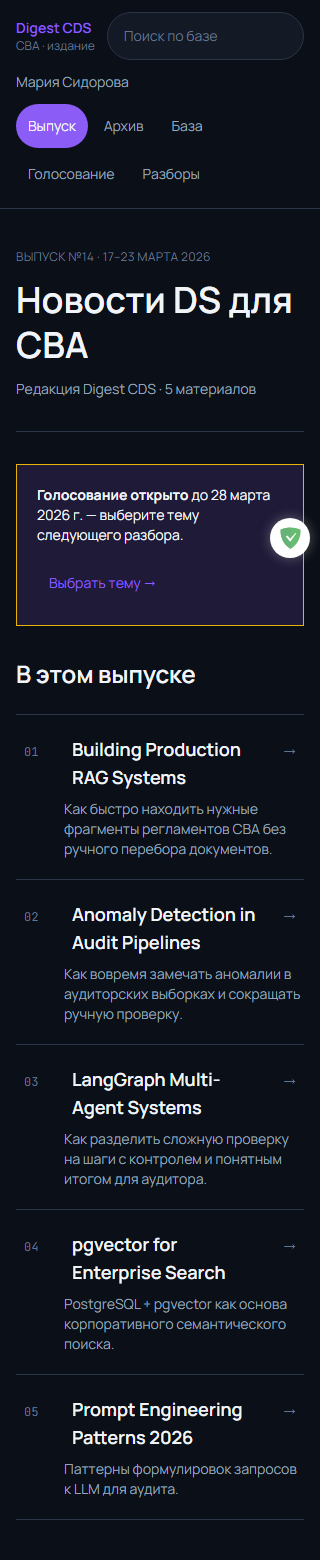
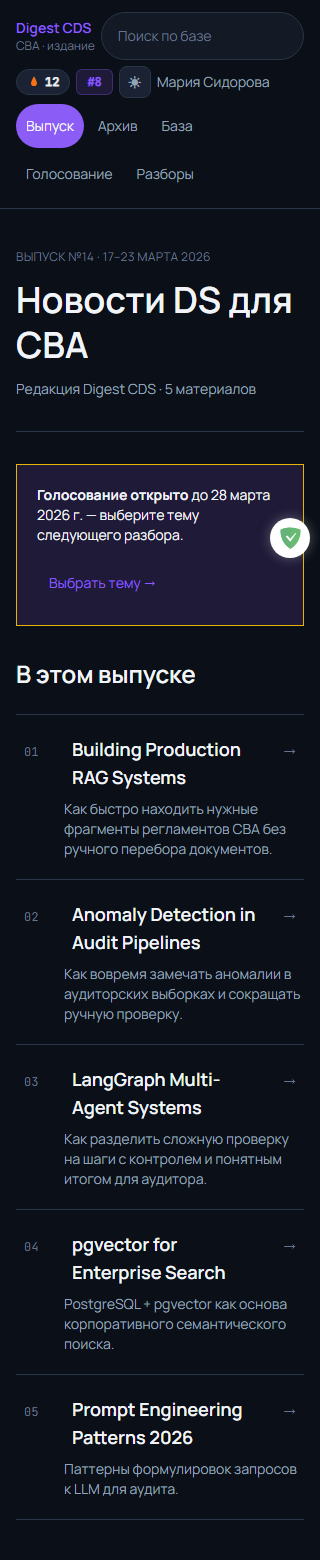
feat(web): wire Concept 2 gamification shell and leaderboard
- AppShell: StreakPill + XpBar + RankChip + ThemeToggle header widgets (labelled demo seed)

- new /leaderboard route (LeaderboardPage) behind ADR-0001, honest demo caption

- ProfilePage: XP/streak/rank stats block

- components forward data-testid; tighten header spacing to keep search width

- tests: gamification.spec.js (widgets, leaderboard, theme persistence); scope knowledge filter check to <main>

Changed region(s): [[0.0312, 0.0, 0.6562, 0.1231], [0.6562, 0.0308, 0.8438, 0.0615]]

diff --git a/web/src/components/AppShell.jsx b/web/src/components/AppShell.jsx
@@ -1,15 +1,20 @@
 import { useEffect, useState } from 'react'
 import { Link, NavLink, Outlet } from 'react-router-dom'
+import RankChip from './RankChip.jsx'
 import SearchPill from './SearchPill.jsx'
+import StreakPill from './StreakPill.jsx'
+import ThemeToggle from './ThemeToggle.jsx'
+import XpBar from './XpBar.jsx'
 import { getAccessToken } from '../services/authApi.js'
 import { isLoginRequired, isMocksEnabled } from '../services/authEnv.js'
 import { fetchMe } from '../services/meApi.js'
+import { DEMO_ME_STATS } from '../data/gamification.js'
 
 const MOCK_SHELL_IDENTITY = 'Мария Сидорова'
 
 const linkClass = ({ isActive }) =>
   [
-    'inline-flex min-h-11 items-center rounded-full px-3 text-sm',
+    'inline-flex min-h-11 items-center rounded-full px-2.5 text-sm',
     isActive ? 'bg-primary text-text-primary' : 'text-text-secondary hover:bg-bg-surface',
   ].join(' ')
 
@@ -59,7 +64,7 @@ export default function AppShell() {
   return (
     <div className="min-h-svh bg-bg-app text-text-primary">
       <header className="sticky top-0 z-40 border-b border-border bg-bg-app">
-        <div className="mx-auto flex max-w-6xl flex-wrap items-center gap-3 px-4 py-3">
+        <div className="mx-auto flex max-w-6xl flex-wrap items-center gap-1.5 px-4 py-3">
           <div className="mr-auto min-w-0">
             <p className="font-display text-sm font-semibold text-primary">Digest CDS</p>
             <p className="text-xs text-text-disabled">СВА · издание</p>
@@ -95,10 +100,26 @@ export default function AppShell() {
             ) : null}
           </nav>
           <SearchPill />
+          <div
+            className="flex flex-wrap items-center gap-1.5"
+            data-testid="shell-gamification"
+            title="Демо-данные: геймификация появится после v1 (ADR-0001)"
+          >
+            <StreakPill data-testid="streak-pill" count={DEMO_ME_STATS.streakDays} />
+            <XpBar
+              data-testid="xp-bar"
+              className="hidden sm:flex"
+              level={DEMO_ME_STATS.level}
+              current={DEMO_ME_STATS.xp}
+              max={DEMO_ME_STATS.xpMax}
+            />
+            <RankChip data-testid="rank-chip" rank={DEMO_ME_STATS.rank} />
+            <ThemeToggle data-testid="theme-toggle" />
+          </div>
           {identity ? (
             <Link
               to="/profile"
-              className="max-w-[10rem] shrink-0 truncate text-sm text-text-secondary underline-offset-2 hover:text-primary hover:underline sm:max-w-[14rem]"
+              className="max-w-[10rem] shrink-0 truncate text-sm text-text-secondary underline-offset-2 hover:text-primary hover:underline sm:max-w-[8rem]"
               data-testid="shell-identity"
               title={identity}
             >

diff --git a/web/src/pages/LeaderboardPage.jsx b/web/src/pages/LeaderboardPage.jsx
@@ -1,0 +1,68 @@
+import { Link } from 'react-router-dom'
+import StreakPill from '../components/StreakPill.jsx'
+import { DEMO_LEADERBOARD, LEADERBOARD_NOTE } from '../data/gamification.js'
+
+function rankClass(rank) {
+  if (rank === 1) return 'text-rank-1'
+  if (rank === 2) return 'text-rank-2'
+  if (rank === 3) return 'text-rank-3'
+  return 'text-text-secondary'
+}
+
+/**
+ * Public leaderboard (ADR-0001). Renders labelled demo seed data until the
+ * gamification module ships (post-v1).
+ */
+export default function LeaderboardPage() {
+  return (
+    <section data-testid="leaderboard-page" className="mx-auto max-w-3xl">
+      <h1 className="font-display text-3xl font-semibold">Лидерборд</h1>
+      <p className="mt-2 text-text-secondary">Публичный рейтинг активности · ADR-0001</p>
+      <p data-testid="leaderboard-note" className="mt-2 text-xs text-text-disabled">
+        {LEADERBOARD_NOTE}
+      </p>
+
+      <div className="mt-8 overflow-hidden rounded-2xl border border-border bg-bg-surface">
+        <table className="w-full border-collapse text-sm">
+          <thead>
+            <tr className="text-left text-xs uppercase tracking-wide text-text-disabled">
+              <th scope="col" className="px-4 py-3">#</th>
+              <th scope="col" className="px-4 py-3">Участник</th>
+              <th scope="col" className="px-4 py-3">Ур.</th>
+              <th scope="col" className="px-4 py-3">XP</th>
+              <th scope="col" className="px-4 py-3">Серия</th>
+            </tr>
+          </thead>
+          <tbody>
+            {DEMO_LEADERBOARD.map((row) => (
+              <tr
+                key={row.rank}
+                data-testid="leaderboard-row"
+                data-self={row.isSelf ? 'true' : undefined}
+                className="border-t border-border"
+              >
+                <td className="px-4 py-3">
+                  <span className={`font-mono font-semibold ${rankClass(row.rank)}`}>#{row.rank}</span>
+                </td>
+                <td className="px-4 py-3">
+                  {row.isSelf ? <strong>Вы</strong> : row.name}
+                </td>
+                <td className="px-4 py-3">Ур. {row.level}</td>
+                <td className="px-4 py-3 font-mono">{row.xp}</td>
+                <td className="px-4 py-3">
+                  <StreakPill count={row.streakDays} size="sm" />
+                </td>
+              </tr>
+            ))}
+          </tbody>
+        </table>
+      </div>
+
+      <p className="mt-6">
+        <Link to="/" className="font-medium text-primary no-underline hover:underline">
+          ← К текущему выпуску
+        </Link>
+      </p>
+    </section>
+  )
+}

diff --git a/web/src/pages/ProfilePage.jsx b/web/src/pages/ProfilePage.jsx
@@ -1,14 +1,54 @@
 import { Link } from 'react-router-dom'
+import RankChip from '../components/RankChip.jsx'
+import StreakPill from '../components/StreakPill.jsx'
+import XpBar from '../components/XpBar.jsx'
+import { DEMO_ME_STATS } from '../data/gamification.js'
 
 /**
- * Profile stub — full profile UI lands in a later phase.
+ * Profile stub with Concept 2 progress stats. Full profile UI lands in a later
+ * phase; stats are labelled demo seed (gamification is post-v1, ADR-0001).
  */
 export default function ProfilePage() {
+  const remaining = Math.max(0, DEMO_ME_STATS.xpMax - DEMO_ME_STATS.xp)
+
   return (
     <section data-testid="profile-stub" className="mx-auto max-w-lg">
       <h1 className="font-display text-3xl font-semibold">Профиль</h1>
-      <p className="mt-4 text-text-secondary">
-        Страница профиля будет разработана в следующих фазах. Пока здесь заглушка.
+
+      <div
+        data-testid="profile-stats"
+        className="mt-6 rounded-2xl border border-border bg-bg-surface p-5"
+        title="Демо-данные: геймификация появится после v1 (ADR-0001)"
+      >
+        <div className="flex flex-wrap items-center justify-between gap-3">
+          <span className="text-sm text-text-secondary">Уровень {DEMO_ME_STATS.level}</span>
+          <span className="font-mono text-sm text-xp">
+            {DEMO_ME_STATS.xp} / {DEMO_ME_STATS.xpMax} XP
+          </span>
+        </div>
+        <XpBar
+          data-testid="xp-bar"
+          className="mt-3"
+          level={DEMO_ME_STATS.level}
+          current={DEMO_ME_STATS.xp}
+          max={DEMO_ME_STATS.xpMax}
+        />
+        <p className="mt-2 text-xs text-text-disabled">{remaining} XP до следующего уровня</p>
+
+        <div className="mt-4 flex flex-wrap items-center gap-3 text-sm text-text-secondary">
+          <span className="flex items-center gap-2">
+            Серия
+            <StreakPill data-testid="streak-pill" count={DEMO_ME_STATS.streakDays} size="sm" />
+          </span>
+          <span className="flex items-center gap-2">
+            Ранг
+            <RankChip data-testid="rank-chip" rank={DEMO_ME_STATS.rank} />
+          </span>
+        </div>
+      </div>
+
+      <p className="mt-6 text-text-secondary">
+        Полная страница профиля будет разработана в следующих фазах. Пока здесь заглушка.
       </p>
       <p className="mt-8">
         <Link to="/" className="font-medium text-primary no-underline hover:underline">

diff --git a/tests/gamification.spec.js b/tests/gamification.spec.js
@@ -1,0 +1,61 @@
+const { expect, test } = require("@playwright/test");
+
+/**
+ * Concept 2 gamification shell: header widgets (XP / streak / rank / theme) and
+ * the public leaderboard page (ADR-0001, UI-SPEC_2 §4.2 / §7.2).
+ */
+test.describe("Concept 2 gamification shell", () => {
+  test("header shows XP, streak and rank widgets on authenticated pages", async ({ page }) => {
+    await page.goto("/");
+
+    await expect(page.getByTestId("xp-bar")).toBeVisible();
+    await expect(page.getByTestId("streak-pill")).toBeVisible();
+    await expect(page.getByTestId("rank-chip")).toBeVisible();
+  });
+
+  test("rank chip navigates to the leaderboard page", async ({ page }) => {
+    await page.goto("/");
+    await page.getByTestId("rank-chip").click();
+
+    await expect(page).toHaveURL(/\/leaderboard$/);
+    await expect(page.getByRole("heading", { name: /лидерборд/i })).toBeVisible();
+  });
+
+  test("leaderboard page renders ranked rows with an honest demo caption", async ({ page }) => {
+    await page.goto("/leaderboard");
+
+    const rows = page.getByTestId("leaderboard-row");
+    await expect(rows.first()).toBeVisible();
+    expect(await rows.count()).toBeGreaterThanOrEqual(5);
+
+    // Rank 1 row leads with the top contributor.
+    await expect(rows.first()).toContainText("#1");
+    // Data is demo seed (gamification is post-v1) — never presented as live.
+    await expect(page.getByTestId("leaderboard-note")).toContainText(/демо/i);
+  });
+
+  test("theme toggle switches to light and persists across reload", async ({ page }) => {
+    await page.goto("/");
+    const html = page.locator("html");
+
+    await expect(html).not.toHaveAttribute("data-theme", "light");
+    await page.getByTestId("theme-toggle").click();
+    await expect(html).toHaveAttribute("data-theme", "light");
+
+    await page.reload();
+    await expect(html).toHaveAttribute("data-theme", "light");
+
+    // Back to dark (default) and persisted.
+    await page.getByTestId("theme-toggle").click();
+    await expect(html).not.toHaveAttribute("data-theme", "light");
+  });
+
+  test("profile page surfaces XP, streak and rank stats", async ({ page }) => {
+    await page.goto("/profile");
+
+    await expect(page.getByTestId("profile-stats")).toBeVisible();
+    await expect(page.getByTestId("profile-stats").getByTestId("xp-bar")).toBeVisible();
+    await expect(page.getByTestId("profile-stats").getByTestId("streak-pill")).toBeVisible();
+    await expect(page.getByTestId("profile-stats").getByTestId("rank-chip")).toBeVisible();
+  });
+});

diff --git a/web/src/data/gamification.js b/web/src/data/gamification.js
@@ -1,0 +1,27 @@
+/**
+ * Concept 2 demo seed for gamification widgets (XP / streak / rank / leaderboard).
+ *
+ * Gamification is post-v1 (ADR-0001) and has no backend module yet, so the shell
+ * renders explicitly-labelled demo data instead of fabricating live user stats.
+ */
+
+export const DEMO_ME_STATS = Object.freeze({
+  level: 7,
+  xp: 340,
+  xpMax: 500,
+  streakDays: 12,
+  rank: 8,
+})
+
+export const DEMO_LEADERBOARD = Object.freeze([
+  Object.freeze({ rank: 1, name: 'Anna K.', level: 12, xp: 840, streakDays: 21, isSelf: false }),
+  Object.freeze({ rank: 2, name: 'Maria S.', level: 11, xp: 720, streakDays: 18, isSelf: false }),
+  Object.freeze({ rank: 3, name: 'Alex K.', level: 10, xp: 610, streakDays: 15, isSelf: false }),
+  Object.freeze({ rank: 4, name: 'Elena P.', level: 9, xp: 520, streakDays: 8, isSelf: false }),
+  Object.freeze({ rank: 5, name: 'Oleg N.', level: 8, xp: 480, streakDays: 6, isSelf: false }),
+  Object.freeze({ rank: 6, name: 'Pavel R.', level: 8, xp: 430, streakDays: 5, isSelf: false }),
+  Object.freeze({ rank: 7, name: 'Sofia T.', level: 7, xp: 390, streakDays: 4, isSelf: false }),
+  Object.freeze({ rank: 8, name: 'Вы', level: 7, xp: 340, streakDays: 12, isSelf: true }),
+])
+
+export const LEADERBOARD_NOTE = 'Демо-данные · рейтинг появится после v1 (ADR-0001)'

diff --git a/web/src/App.jsx b/web/src/App.jsx
@@ -5,6 +5,7 @@ import RequireAuth from './components/RequireAuth.jsx'
 import ArchivePage from './pages/ArchivePage.jsx'
 import IssuePage from './pages/IssuePage.jsx'
 import KnowledgePage from './pages/KnowledgePage.jsx'
+import LeaderboardPage from './pages/LeaderboardPage.jsx'
 import LoginPage from './pages/LoginPage.jsx'
 import MaterialPage from './pages/MaterialPage.jsx'
 import AdminDigestPage from './pages/AdminDigestPage.jsx'
@@ -38,6 +39,7 @@ export default function App() {
           <Route path="razbory" element={<RazboryListPage />} />
           <Route path="razbory/:id" element={<RazborPage />} />
           <Route path="profile" element={<ProfilePage />} />
+          <Route path="leaderboard" element={<LeaderboardPage />} />
           <Route path="admin/digest" element={<AdminDigestPage />} />
           <Route path="admin/pipeline" element={<AdminPipelineConfigPage />} />
           <Route path="*" element={<Navigate to="/" replace />} />

diff --git a/web/src/components/ThemeToggle.jsx b/web/src/components/ThemeToggle.jsx
@@ -2,7 +2,7 @@ import { useEffect, useState } from 'react'
 
 const THEME_KEY = 'digest-cds-theme'
 
-export default function ThemeToggle({ className = '' }) {
+export default function ThemeToggle({ className = '', ...rest }) {
   const [isLight, setIsLight] = useState(false)
 
   useEffect(() => {
@@ -33,9 +33,10 @@ export default function ThemeToggle({ className = '' }) {
   return (
     <button
       type="button"
+      {...rest}
       onClick={toggle}
       aria-label={isLight ? 'Тёмная тема' : 'Светлая тема'}
-      className={`flex h-9 w-9 items-center justify-center rounded-lg border border-border bg-bg-elevated text-text-secondary ${className}`}
+      className={`flex h-8 w-8 items-center justify-center rounded-lg border border-border bg-bg-elevated text-text-secondary ${className}`}
     >
       {isLight ? '☽' : '☀'}
     </button>

diff --git a/web/src/components/XpBar.jsx b/web/src/components/XpBar.jsx
@@ -1,9 +1,9 @@
-export default function XpBar({ level = 7, current = 340, max = 500, className = '' }) {
+export default function XpBar({ level = 7, current = 340, max = 500, className = '', ...rest }) {
   const ratio = Math.min(1, Math.max(0, current / max))
   return (
-    <div className={`flex items-center gap-2 ${className}`}>
+    <div {...rest} className={`flex items-center gap-2 ${className}`}>
       <span className="whitespace-nowrap text-[11px] font-bold text-xp">Ур. {level}</span>
-      <div className="h-1.5 w-24 overflow-hidden rounded-full bg-xp-muted">
+      <div className="h-1.5 w-20 overflow-hidden rounded-full bg-xp-muted">
         <div className="h-full rounded-full bg-xp" style={{ width: `${ratio * 100}%` }} />
       </div>
     </div>

diff --git a/tests/knowledge.spec.js b/tests/knowledge.spec.js
@@ -11,7 +11,9 @@ test.describe("knowledge honesty (KNOW-01…04)", () => {
     await page.goto("/knowledge");
 
     await expect(page.locator("select")).toHaveCount(0);
-    await expect(page.getByLabel(/теги|формат|тема/i)).toHaveCount(0);
+    // D-62…D-65: no tag/format/topic filter controls in the page content.
+    // Scoped to <main> — the header theme toggle ("тема") is unrelated chrome.
+    await expect(page.locator("main").getByLabel(/теги|формат|тема/i)).toHaveCount(0);
 
     const search = page.getByRole("searchbox", { name: /поиск по базе знаний/i });
     await search.fill("RAG");

diff --git a/web/src/components/StreakPill.jsx b/web/src/components/StreakPill.jsx
@@ -1,7 +1,8 @@
-export default function StreakPill({ count = 12, size = 'md', className = '' }) {
+export default function StreakPill({ count = 12, size = 'md', className = '', ...rest }) {
   const isSmall = size === 'sm'
   return (
     <span
+      {...rest}
       className={`inline-flex items-center gap-1 rounded-full border border-border bg-bg-elevated font-mono font-semibold text-text-primary ${isSmall ? 'px-2 py-0.5 text-[11px]' : 'px-2.5 py-1 text-xs'} ${className}`}
     >
       <span className="text-streak">

diff --git a/web/src/components/RankChip.jsx b/web/src/components/RankChip.jsx
@@ -1,8 +1,9 @@
 import { Link } from 'react-router-dom'
 
-export default function RankChip({ rank = 8, className = '' }) {
+export default function RankChip({ rank = 8, className = '', ...rest }) {
   return (
     <Link
+      {...rest}
       to="/leaderboard"
       className={`rounded-md border border-primary/30 bg-primary/15 px-2.5 py-1 font-mono text-xs font-semibold text-primary no-underline ${className}`}
     >

diff --git a/playwright.config.js b/playwright.config.js
@@ -69,7 +69,7 @@ module.exports = defineConfig({
     },
     {
       name: "web",
-      testMatch: /(web-app|auth|knowledge|razbory|admin)\.spec\.js/,
+      testMatch: /(web-app|auth|knowledge|razbory|admin|gamification)\.spec\.js/,
       use: { baseURL: "http://127.0.0.1:5174" },
     },
   ],
